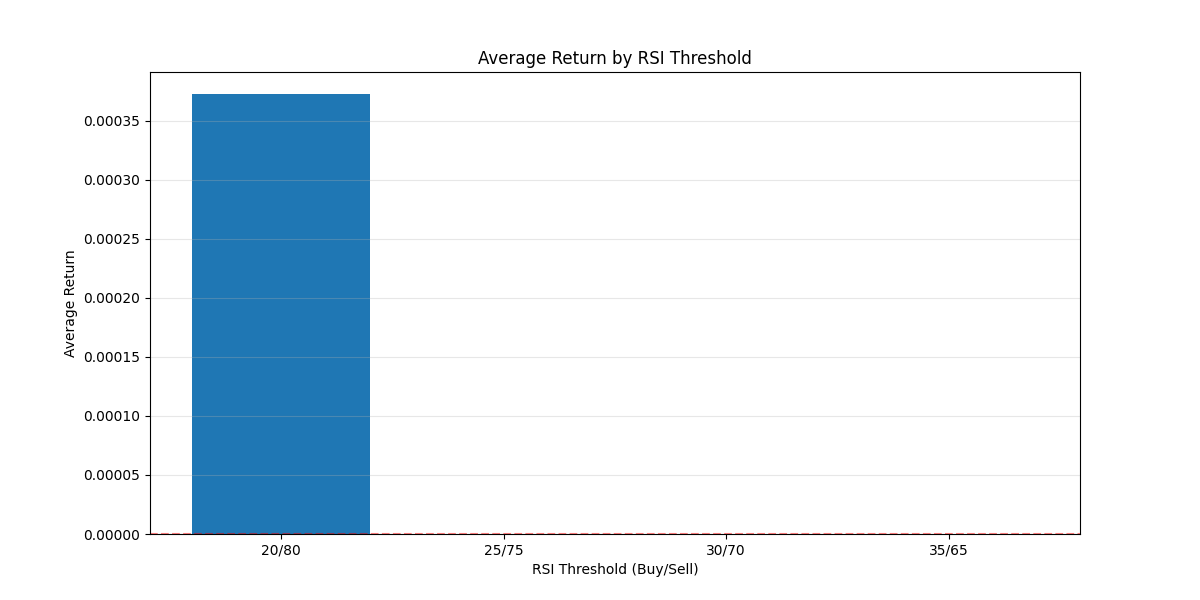
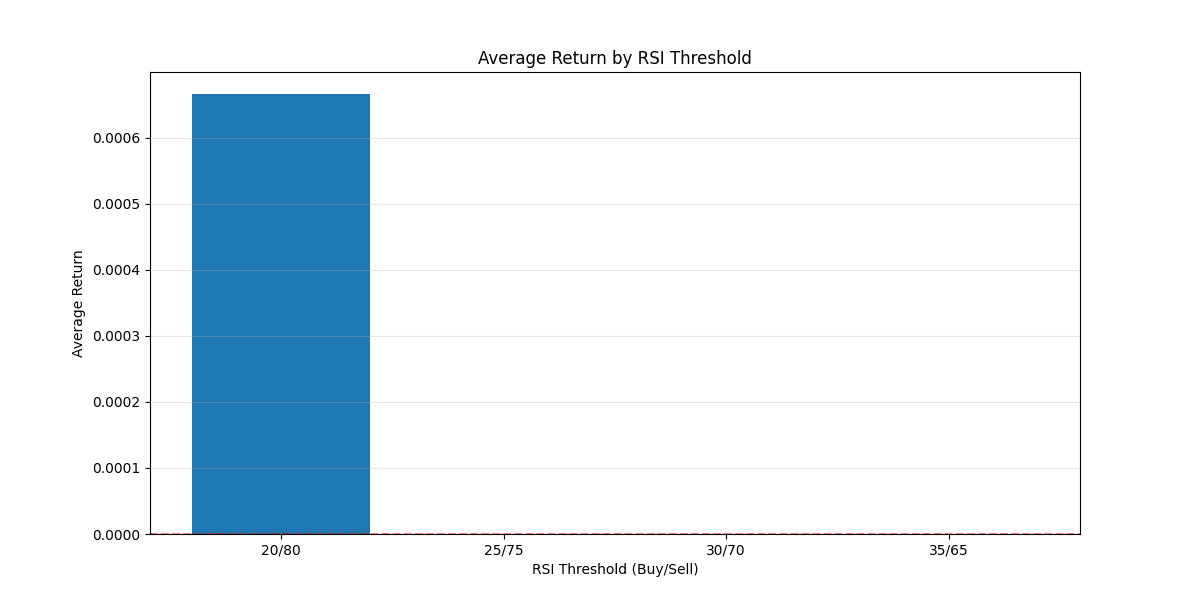
Close any remaining open position at end of backtest

diff --git a/strategies/research/rsi_optimization/rsi_research.py b/strategies/research/rsi_optimization/rsi_research.py
@@ -74,6 +74,25 @@ def backtest_rsi_strategy(ticker, data, rsi_buy, rsi_sell, holding_days, stop_lo
                 
                 position = 0
                 position_entry_capital = 0
+                
+    # Close any remaining open position at end of backtest
+    if position > 0:
+        final_price = data['Close'].iloc[-1].values[0]
+        current_capital = position * final_price
+        pnl = current_capital - position_entry_capital
+        pnl_pct = (final_price - trades[-1]['entry_price']) / trades[-1]['entry_price']
+        
+        trades[-1].update({
+            'exit_date': data.index[-1],
+            'exit_price': float(final_price),
+            'exit_capital': float(current_capital),
+            'pnl': float(pnl),
+            'pnl_pct': float(pnl_pct),
+            'days_held': len(data) - trades[-1]['entry_index'],
+            'exit_reason': 'End of backtest period'  # NEW field
+        })
+        
+        position = 0
     
     # ✅ FIXED: Calculate metrics with safety checks
     completed_trades = [t for t in trades if 'pnl' in t]
